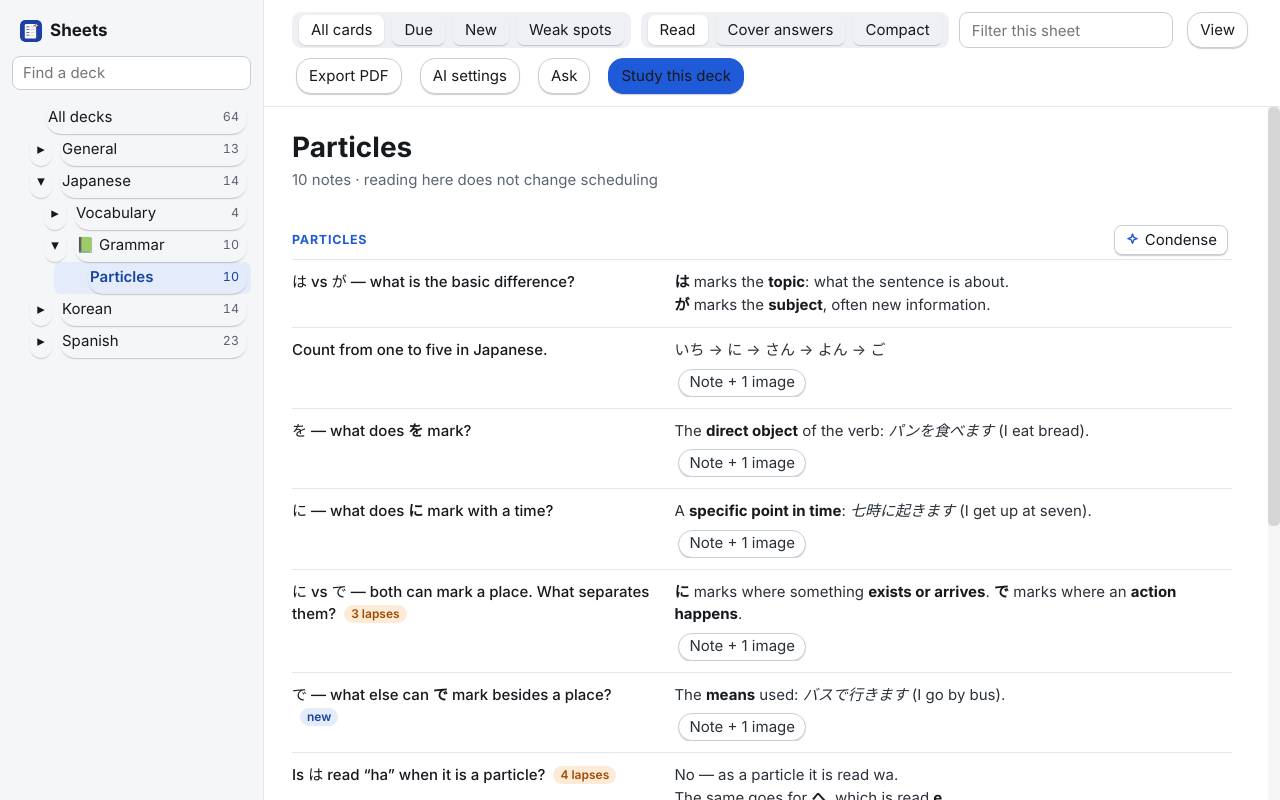
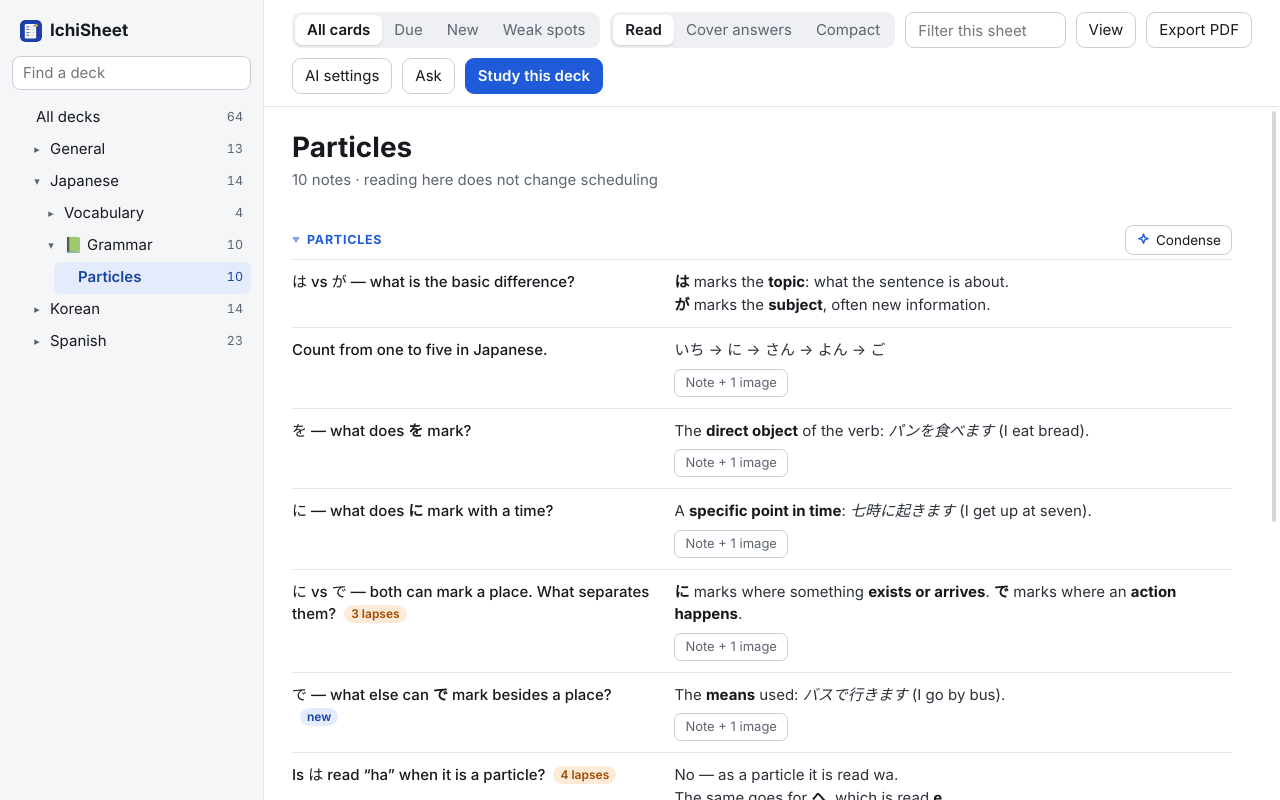
IchiSheet 1.1.0
Sheets is now IchiSheet by StarHug. Tighter licence terms and contributor terms. Includes the 1.0.4 changes.

Claude-Session: https://claude.ai/code/session_0131ku1EZf9DxhiT72YsnyNj

diff --git a/anki_sheets/web/sheet.js b/anki_sheets/web/sheet.js
@@ -102,8 +102,8 @@ var Sheets = (function () {
     '<g fill="#1f3fa8"><rect x="144" y="150" width="78" height="18" rx="9"/><rect x="144" y="214" width="78" height="18" rx="9"/><rect x="144" y="278" width="78" height="18" rx="9"/><rect x="144" y="342" width="78" height="18" rx="9"/></g>' +
     '<g fill="#b9c3de"><rect x="244" y="150" width="100" height="18" rx="9"/><rect x="244" y="214" width="100" height="18" rx="9"/><rect x="244" y="278" width="100" height="18" rx="9"/><rect x="244" y="342" width="72" height="18" rx="9"/></g>' +
     '<path d="M384 62 C392 108 404 120 450 128 C404 136 392 148 384 194 C376 148 364 136 318 128 C364 120 376 108 384 62 Z" fill="#ffc94a" stroke="#1f3fa8" stroke-width="12" stroke-linejoin="round"/></svg>';
-  function brand() { return h("h1", { class: "brand" }, h("span", { html: LOGO }), "Sheets"); }
-  function title() { return S.home ? "Sheets" : S.deck ? S.deck.split("::").pop() : "All decks"; }
+  function brand() { return h("h1", { class: "brand" }, h("span", { html: LOGO }), "IchiSheet"); }
+  function title() { return S.home ? "IchiSheet" : S.deck ? S.deck.split("::").pop() : "All decks"; }
   function allRows() {
     var out = [];
     ((S.data && !S.data.__error && S.data.decks) || []).forEach(function (d) { d.groups.forEach(function (g) { g.rows.forEach(function (r) { out.push(r); }); }); });
@@ -365,7 +365,7 @@ var Sheets = (function () {
           onclick: function () { S.viewOpen = false; renderView(); renderBar(); openFields(); } }, "Choose fields…")),
       h("div", { class: "vfoot" },
         h("button", { class: "btn small", type: "button", id: "view-reset",
-          title: "Puts sections (for every deck), spacing, emphasis, theme, column widths, notes and review ticks back to how Sheets starts out. Your ticks, card field choices and AI settings are kept.",
+          title: "Puts sections (for every deck), spacing, emphasis, theme, column widths, notes and review ticks back to how IchiSheet starts out. Your ticks, card field choices and AI settings are kept.",
           onclick: function (e) {
             var b = e.currentTarget;
             if (b.getAttribute("data-armed") !== "1") {   // ask once before wiping the layout choices
@@ -385,10 +385,10 @@ var Sheets = (function () {
         h("button", { class: "btn small", type: "button", id: "refresh",
           title: "Reload decks and cards from Anki", onclick: function () { S.viewOpen = false; init(); } }, "Refresh from Anki")),
       h("div", { class: "vsupport" },
-        h("span", { text: "Sheets" + (S.version ? " " + S.version : "") }),
-        link("rate", "Rate on AnkiWeb", "A thumbs up on AnkiWeb helps other students find Sheets"),
+        h("span", { text: "IchiSheet" + (S.version ? " " + S.version : "") + " by StarHug" }),
+        link("rate", "Rate on AnkiWeb", "A thumbs up on AnkiWeb helps other students find IchiSheet"),
         link("issues", "Report a problem", "Opens the issue page on GitHub"),
-        link("support", "Buy me a coffee", "Sheets is free. A coffee helps keep it maintained")));
+        link("support", "Buy me a coffee", "IchiSheet is free. A coffee helps keep it maintained")));
     function link(to, label, tip) {
       return h("a", { href: "#", title: tip, onclick: function (e) { e.preventDefault(); call("link", { to: to }); } }, label);
     }
@@ -526,7 +526,7 @@ var Sheets = (function () {
       out.push("");
     });
     if (s.gaps && s.gaps.length) out.push("Not covered by the cards: " + gapsText(s) + ".", "");
-    out.push("AI summary of " + plural(s.count || g.rows.length, "card") + ", made with Sheets.");
+    out.push("AI summary of " + plural(s.count || g.rows.length, "card") + ", made with IchiSheet.");
     return out.join("\n");
   }
 
@@ -600,7 +600,7 @@ var Sheets = (function () {
       body);
   }
 
-  // Section and deck titles fold their cards away. Folds last until Sheets is closed.
+  // Section and deck titles fold their cards away. Folds last until IchiSheet is closed.
   function foldBtn(key, label, body) {
     var btn = h("button", { class: "fold", type: "button", title: "Click to fold or unfold this section" },
       h("span", { class: "caret", "aria-hidden": "true" }), h("span", { text: label }));
@@ -665,7 +665,7 @@ var Sheets = (function () {
       onkeydown: function (e) { if (e.key === "Escape") { e.preventDefault(); e.stopPropagation(); close(); } } },
       h("div", { class: "modal", role: "dialog", "aria-modal": "true", "aria-labelledby": "f-title" },
         h("h2", { id: "f-title", text: "Card fields" }),
-        h("p", { class: "muted", text: "Each kind of card on this sheet is listed below. Sheets normally shows the first field as the question and the next filled field as the answer. Change that here if it guessed wrong. This only affects how Sheets displays cards; your cards are not changed." }),
+        h("p", { class: "muted", text: "Each kind of card on this sheet is listed below. IchiSheet normally shows the first field as the question and the next filled field as the answer. Change that here if it guessed wrong. This only affects how IchiSheet displays cards; your cards are not changed." }),
         body,
         h("div", { class: "modal-foot" },
           h("button", { class: "btn", type: "button", onclick: close }, "Cancel"),
@@ -705,7 +705,7 @@ var Sheets = (function () {
       put(page, [h("div", { class: "head" }, brand(),
         h("div", { class: "meta", text: "Pick a deck on the left to read it as one page." })),
         S.recovered ? h("div", { class: "notice", id: "recovered" }, h("span", { text: "Last time, “" + S.recovered.split("::").pop() +
-          "” did not finish opening, so Sheets started here instead of reopening it. You can still pick it from the list." })) : null]);
+          "” did not finish opening, so IchiSheet started here instead of reopening it. You can still pick it from the list." })) : null]);
       return;
     }
     if (!d) { put(page, [h("div", { class: "empty", id: "loading", text: "Loading…" })]); return; }
@@ -989,7 +989,7 @@ var Sheets = (function () {
       onkeydown: function (e) { if (e.key === "Escape") { e.preventDefault(); e.stopPropagation(); close(); } } },
       h("div", { class: "modal", role: "dialog", "aria-modal": "true", "aria-labelledby": "ai-title" },
         h("h2", { id: "ai-title", text: "AI settings" }),
-        h("p", { class: "muted", text: "AI is optional. With it off, Sheets never goes online. With it on, card text is sent only when you click Condense or send a question, straight from this computer to the provider below. Pictures and audio are never sent." }),
+        h("p", { class: "muted", text: "AI is optional. With it off, IchiSheet never goes online. With it on, card text is sent only when you click Condense or send a question, straight from this computer to the provider below. Pictures and audio are never sent." }),
         h("label", { class: "check" }, enabled, h("span", { text: "Turn on Condense and Ask" })),
         h("label", { class: "field" }, h("span", { text: "Provider" }), provider),
         h("label", { class: "field" }, h("span", { text: "API key" }), key,
@@ -1111,7 +1111,7 @@ var Sheets = (function () {
     var main = app.querySelector(".main");
     if (!main || main.querySelector(".fatal")) return;
     main.insertBefore(h("div", { class: "fatal", role: "alert" },
-      h("span", { text: "Sheets hit a problem (" + msg + "). Your cards are not affected." }),
+      h("span", { text: "IchiSheet hit a problem (" + msg + "). Your cards are not affected." }),
       h("button", { class: "btn small", type: "button", onclick: function () { loading = false; queued = false; init(); } }, "Reload")),
       main.querySelector(".scroll"));
   }

diff --git a/anki_sheets/web/sheet.css b/anki_sheets/web/sheet.css
@@ -37,7 +37,7 @@ body.nightMode #app.theme-contrast, body.night_mode #app.theme-contrast {
 #app button, #app input, #app select { font: inherit; color: inherit; }
 #app button { cursor: pointer; }
 /* Theme add-ons restyle every <button> in Anki, often with !important. The :not(#x) on the
-   button rules below only raises their priority so Sheets keeps its own shapes and spacing. */
+   button rules below only raises their priority so IchiSheet keeps its own shapes and spacing. */
 #app button { margin: 0 !important; min-width: 0 !important; min-height: 0 !important; box-shadow: none !important;
   text-shadow: none !important; transform: none !important; background-image: none !important; text-transform: none !important;
   padding: 0 !important; border-radius: 0 !important; color: inherit !important; font-family: inherit !important; font-size: inherit !important; }

diff --git a/demo/driver_view/__init__.py b/demo/driver_view/__init__.py
@@ -152,7 +152,7 @@ class Driver:
         notes_before = mw.col.note_count()
         cards_before = mw.col.db.all("select id, mod, due, ivl, reps, lapses from cards")
         col_mod = mw.col.db.scalar("select mod from col")
-        next(a for a in mw.form.menuTools.actions() if a.text() == "Sheets").trigger()
+        next(a for a in mw.form.menuTools.actions() if a.text() == "IchiSheet").trigger()
         yield 500
         self.dlg.setGeometry(0, 0, 1280, 800)
         yield 2200
@@ -448,13 +448,13 @@ class Driver:
         mw.pm.profile["ankiSheets"] = dict(saved, pending=SPELLING)
         self.dlg.reject()
         yield 500
-        next(a for a in mw.form.menuTools.actions() if a.text() == "Sheets").trigger()
+        next(a for a in mw.form.menuTools.actions() if a.text() == "IchiSheet").trigger()
         yield 500
         self.dlg.setGeometry(0, 0, 1280, 800)
         yield 2200
         note = yield from self.text("#recovered")
         rows = yield from self.count(".row")
-        log("after an unfinished load, Sheets starts on the start page and says why", rows == 0 and "did not finish opening" in note, [rows, note])
+        log("after an unfinished load, IchiSheet starts on the start page and says why", rows == 0 and "did not finish opening" in note, [rows, note])
         yield from self.js("Sheets.selectDeck(%s); 1" % json.dumps(SPELLING))
         yield 1800
         hover = yield from self.js("document.querySelector('.head .meta').title")

diff --git a/demo/driver/__init__.py b/demo/driver/__init__.py
@@ -1,4 +1,4 @@
-"""Demo driver: runs inside real Anki, clicks through the Sheets add-on with the
+"""Demo driver: runs inside real Anki, clicks through the IchiSheet add-on with the
 real mouse pointer, checks what is on screen at each step, then quits.
 Not part of the add-on."""
 
@@ -122,8 +122,8 @@ class Driver:
 
         # 1. open from the Tools menu, like a user would
         menu = mw.form.menuTools
-        action = next(a for a in menu.actions() if a.text() == "Sheets")
-        log("Tools menu has a Sheets entry", True, action.shortcut().toString())
+        action = next(a for a in menu.actions() if a.text() == "IchiSheet")
+        log("Tools menu has a IchiSheet entry", True, action.shortcut().toString())
         bar = mw.form.menubar
         rect = bar.actionGeometry(menu.menuAction())
         yield from self.glide(bar, rect.center())
@@ -139,7 +139,7 @@ class Driver:
         yield 2600
         mark("opened")
         s = yield from self.snapshot()
-        log("sheet window opens on a start page, not a heavy All decks load", s["title"] == "Sheets" and s["rows"] == 0, s)
+        log("sheet window opens on a start page, not a heavy All decks load", s["title"] == "IchiSheet" and s["rows"] == 0, s)
         yield from self.click('.dk[data-deck=""]', 1500)
         s = yield from self.snapshot()
         log("All decks shows every note", s["title"] == "All decks" and s["rows"] == 19, s)

diff --git a/tests/seed.py b/tests/seed.py
@@ -204,7 +204,7 @@ def stress_notes():
         out.append(("Full conjugation table for <b>hablar</b>, set %d" % i, table))
         out.append(("Where is the long reference link for set %d?" % i, long_word))
     out.insert(9, ("<h2>Practice routine that is taller than one page</h2>", tall))
-    # a card from a hostile shared deck: none of this may run in Sheets
+    # a card from a hostile shared deck: none of this may run in IchiSheet
     out.append(('What does <b>gracias</b> mean?<img src="nope.png" onerror="window.pwned=1">'
                 '<svg onload="window.pwned=2"></svg><iframe srcdoc="<script>parent.pwned=3</script>"></iframe>',
                 'Thank you. <a href="javascript:window.pwned=4" id="evil">more</a>'

diff --git a/anki_sheets/__init__.py b/anki_sheets/__init__.py
@@ -1,6 +1,6 @@
-"""Sheets: read any deck as one scrollable page.
+"""IchiSheet: read any deck as one scrollable page.
 
-Tools > Sheets, or the gear menu next to a deck > View as Sheet.
+Tools > IchiSheet, or the gear menu next to a deck > View as Sheet.
 """
 
 from __future__ import annotations
@@ -16,7 +16,7 @@ if mw is not None:
     from .dialog import open_sheet, close_sheet
 
     def _menu() -> None:
-        action = QAction("Sheets", mw)
+        action = QAction("IchiSheet", mw)
         action.setShortcut(QKeySequence("Ctrl+Shift+E"))
         action.triggered.connect(lambda: open_sheet())
         mw.form.menuTools.addAction(action)

diff --git a/demo/driver_shots/__init__.py b/demo/driver_shots/__init__.py
@@ -12,7 +12,7 @@ def start():
     user = mw.addonManager.getConfig("anki_sheets") or {}
     user["ai"] = dict(user.get("ai") or {}, enabled=True, provider="openai_compatible", base_url="http://127.0.0.1:8765/v1", model="stand-in")
     mw.addonManager.writeConfig("anki_sheets", user)
-    next(a for a in mw.form.menuTools.actions() if a.text() == "Sheets").trigger()
+    next(a for a in mw.form.menuTools.actions() if a.text() == "IchiSheet").trigger()
     from anki_sheets import dialog
     d = dialog._dialog
     d.setGeometry(0, 0, 1280, 800)

diff --git a/demo/driver_ai/__init__.py b/demo/driver_ai/__init__.py
@@ -128,7 +128,7 @@ class Driver:
         yield 2000
         notes_before = mw.col.note_count()
         cards_before = mw.col.db.all("select id, mod, due, ivl, reps, lapses from cards")
-        next(a for a in mw.form.menuTools.actions() if a.text() == "Sheets").trigger()
+        next(a for a in mw.form.menuTools.actions() if a.text() == "IchiSheet").trigger()
         yield 500
         self.dlg.setGeometry(0, 0, 1280, 800)
         yield 2200

diff --git a/anki_sheets/dialog.py b/anki_sheets/dialog.py
@@ -87,7 +87,7 @@ def _where(c: dict) -> tuple:
 class SheetDialog(QDialog):
     def __init__(self, deck_id: int | None = None) -> None:
         super().__init__(None, Qt.WindowType.Window)
-        self.setWindowTitle("Sheets")
+        self.setWindowTitle("IchiSheet")
         self.resize(1180, 800)
         restoreGeom(self, "ankiSheets")
         self.initial_deck = mw.col.decks.name(deck_id) if deck_id else None

diff --git a/demo/driver_theme/__init__.py b/demo/driver_theme/__init__.py
@@ -13,7 +13,7 @@ def theme(web_content, context):
 gui_hooks.webview_will_set_content.append(theme)
 def start():
     os.makedirs(OUT, exist_ok=True)
-    next(a for a in mw.form.menuTools.actions() if a.text() == "Sheets").trigger()
+    next(a for a in mw.form.menuTools.actions() if a.text() == "IchiSheet").trigger()
     from anki_sheets import dialog
     d = dialog._dialog
     d.setGeometry(0, 0, 1280, 420)

diff --git a/demo/driver_pdf/__init__.py b/demo/driver_pdf/__init__.py
@@ -36,7 +36,7 @@ def check(pdf, tag):
 
 def start():
     os.makedirs(OUT, exist_ok=True)
-    next(a for a in mw.form.menuTools.actions() if a.text() == "Sheets").trigger()
+    next(a for a in mw.form.menuTools.actions() if a.text() == "IchiSheet").trigger()
     from anki_sheets import dialog
     d = dialog._dialog
     d.setGeometry(0, 0, 1280, 800)

diff --git a/anki_sheets/ai.py b/anki_sheets/ai.py
@@ -1,4 +1,4 @@
-"""AI features for Sheets: Condense (cheat-sheet block for a section) and Ask.
+"""AI features for IchiSheet: Condense (cheat-sheet block for a section) and Ask.
 
 No GUI imports. Requests go straight from this computer to the provider the
 user configured; nothing here runs unless the user clicks Condense or sends a
